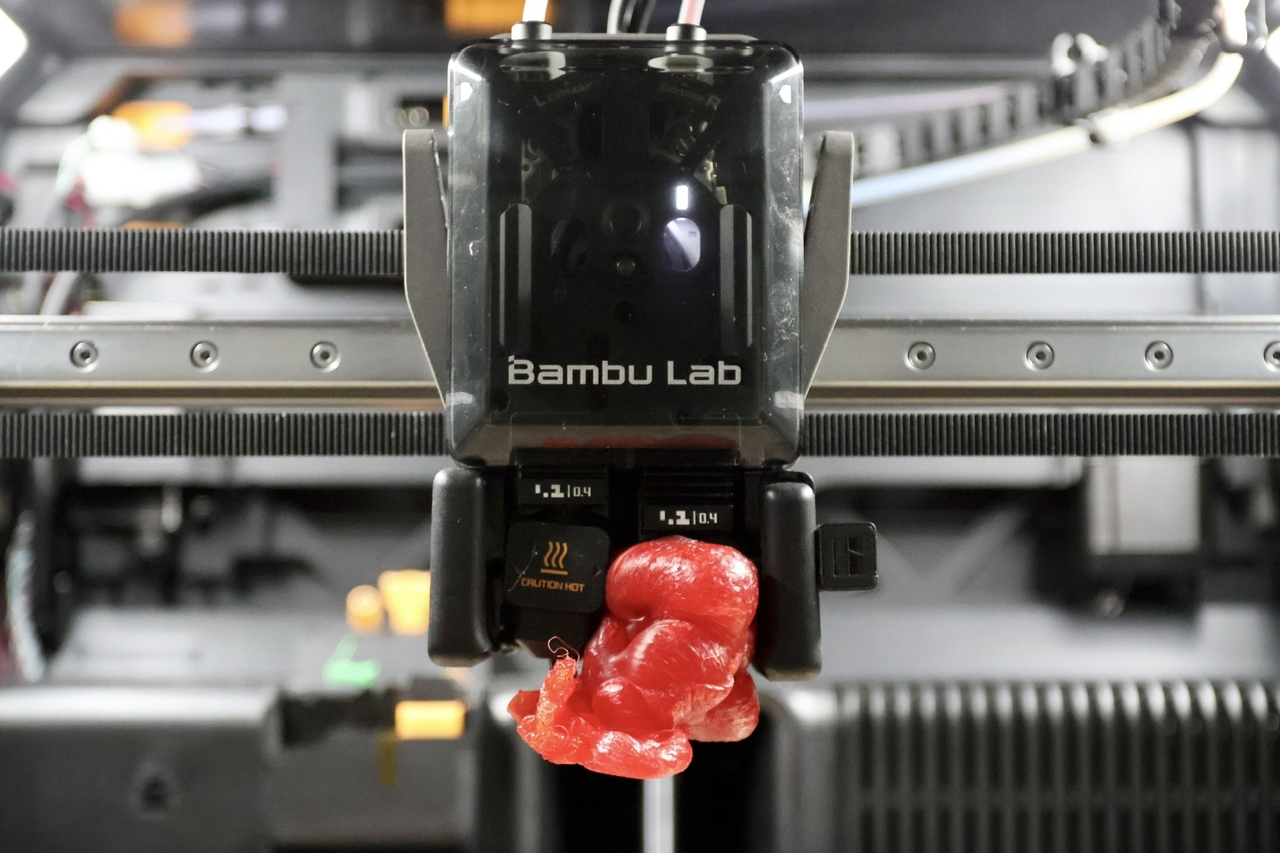
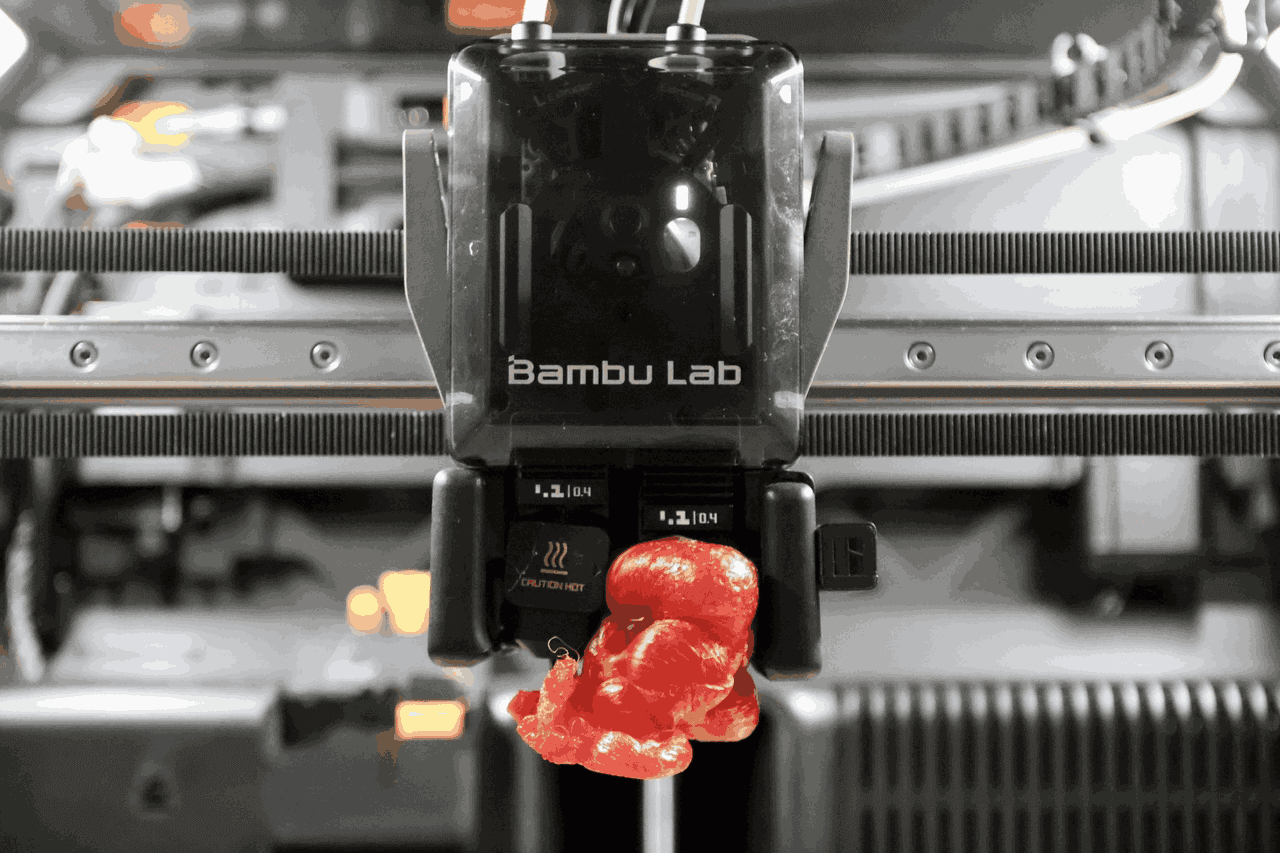
FIX:linux png format error
GITHUB: #7913

diff --git a/src/slic3r/GUI/ImageMessageDialog.cpp b/src/slic3r/GUI/ImageMessageDialog.cpp
@@ -29,7 +29,7 @@ ImageMessageDialog::ImageMessageDialog(wxWindow *parent, wxWindowID id, const wx
     int target_w = FromDIP(380);
     int target_h = FromDIP(270);
     std::string image_path = (boost::format("%1%/images/clumping.png") % resources_dir()).str();
-    wxImage* image = new wxImage(image_path, wxBITMAP_TYPE_ANY);
+    wxImage* image = new wxImage(image_path, wxBITMAP_TYPE_PNG);
     if (image && image->IsOk()) {
         *image = image->Scale(target_w, target_h, wxIMAGE_QUALITY_HIGH);
     }